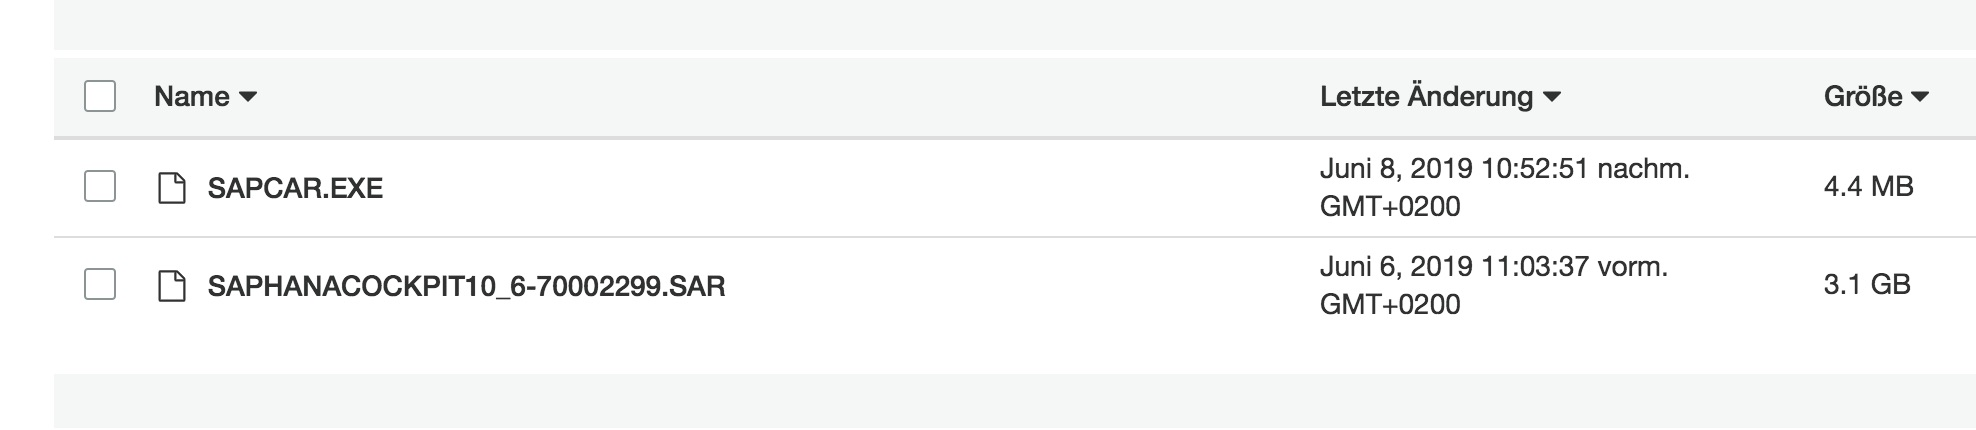
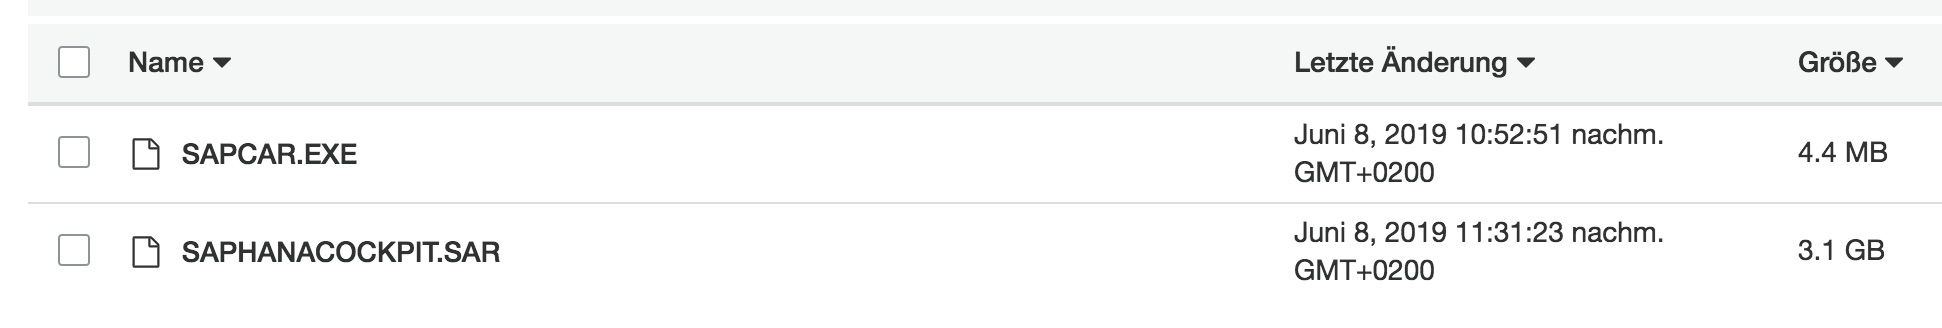
init

diff --git a/hana_cockpit/readme.md b/hana_cockpit/readme.md
@@ -6,11 +6,13 @@ https://help.sap.com/viewer/df02d156db744412ad1f9e887aba68ad/2.10.0.0/en-US/b472
 ## Prerequisites:
 
 - SLES OS
-- S3 bucket with downloaded software (via SAP Support Launchpad), as seen below:
+- S3 bucket with downloaded software (via SAP Support Launchpad), as seen below (plz rename accordingly!):
 
 ![image](software.jpg)
 
 ## Deployment
+
+Can take up to 30min to complete!
 
 ### Manually:
 
@@ -22,7 +24,6 @@ $ ./deploy.sh s3://<bucket>/ <password>
 e.g.
 
 ```bash
-$ chmod 700 deploy.sh
 $ ./deploy.sh s3://sap-sources/HANA_CLIENT/HANA_COCKPIT/ MyHanaCP123#
 ```
 
@@ -43,7 +44,7 @@ $ ./deploy.sh s3://sap-sources/HANA_CLIENT/HANA_COCKPIT/ MyHanaCP123#
 
 ## Post-Deployment steps
 
-- Create HANA Role
+- Create specific user inside HANA system to be managed from the cockpit
 ```sql
 CREATE USER <username> PASSWORD <password> NO FORCE_FIRST_PASSWORD_CHANGE;
 GRANT CATALOG READ to <username>;
